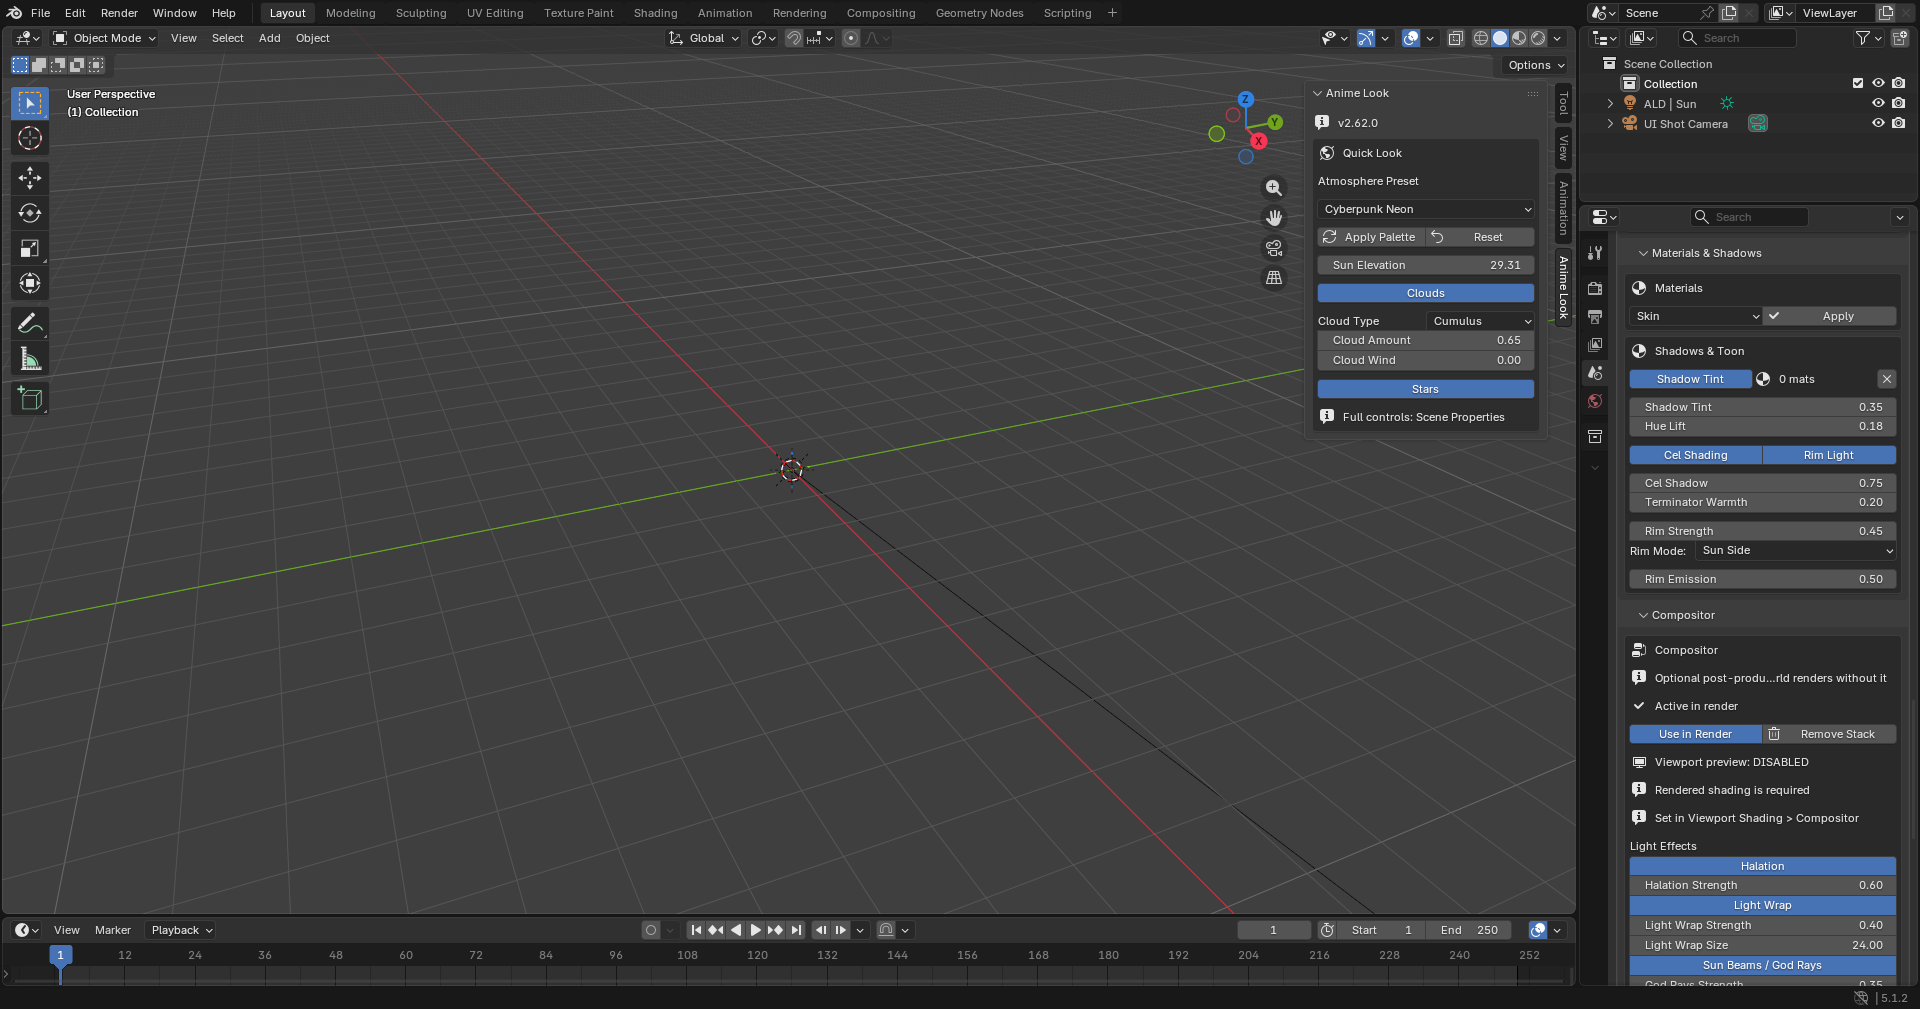
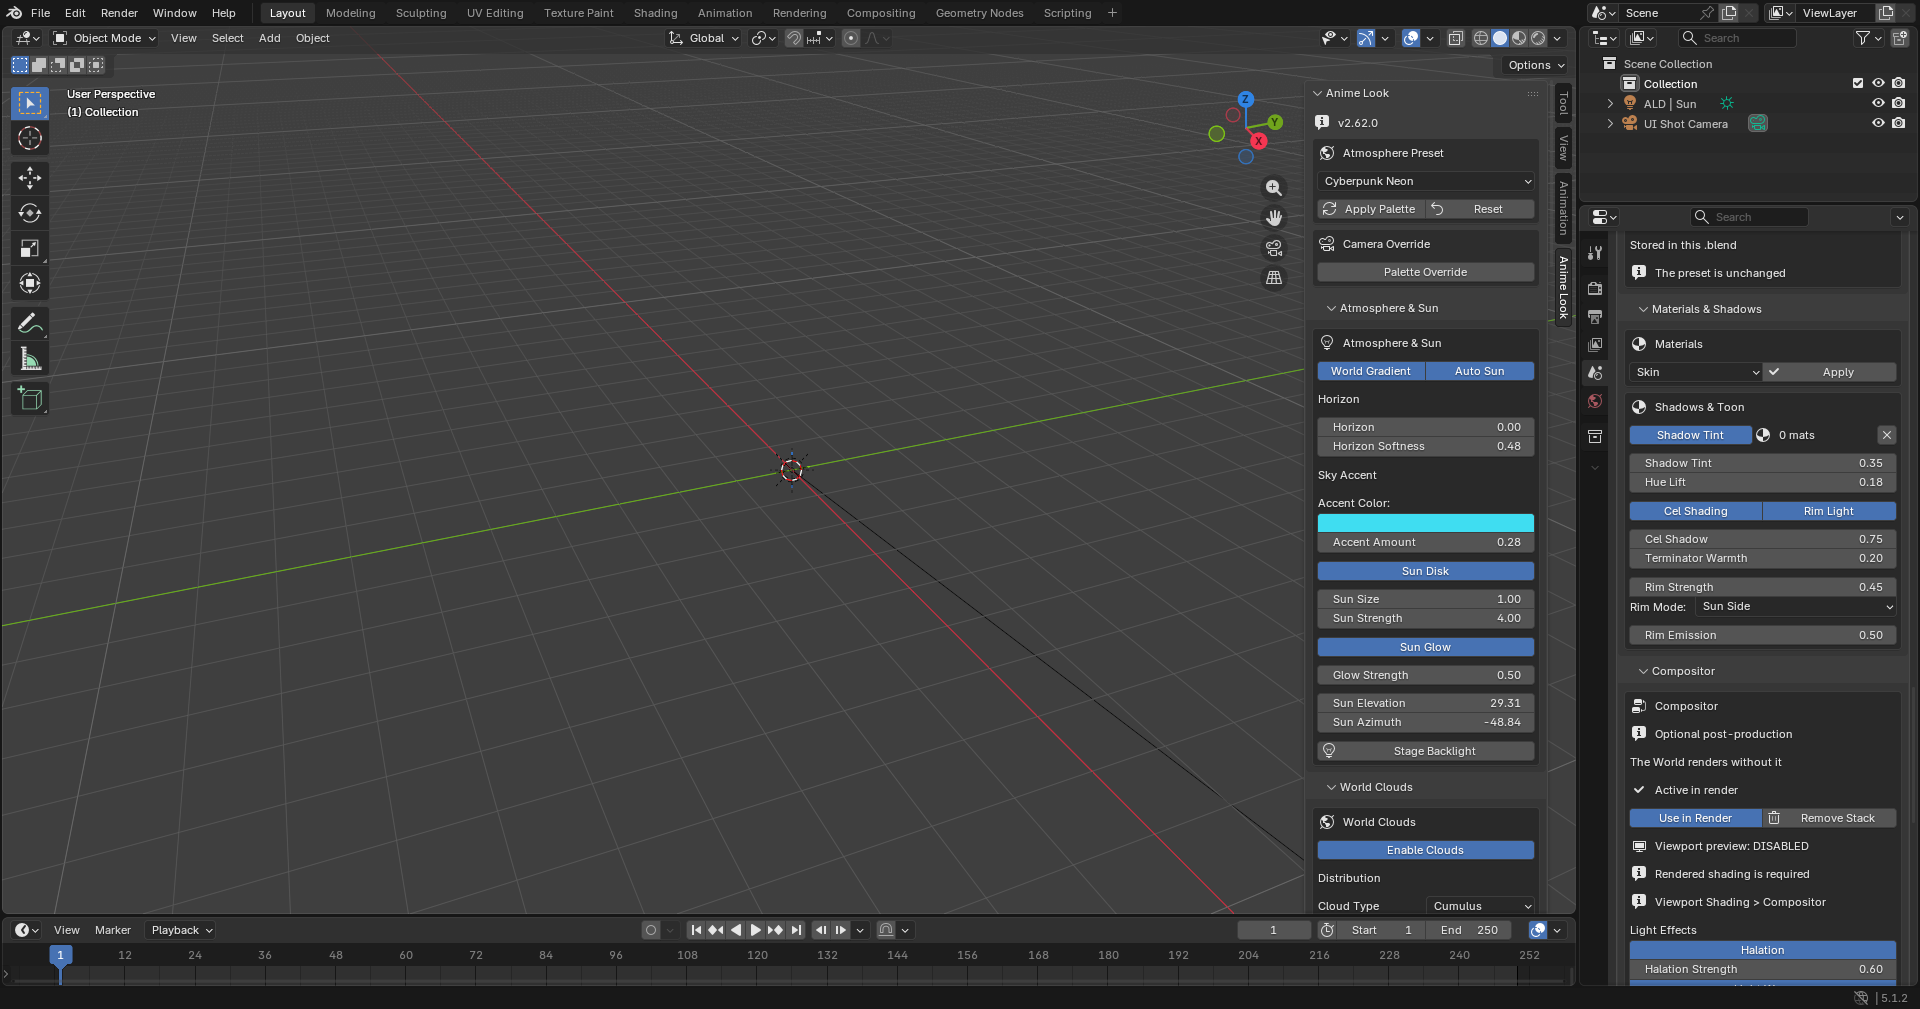
test: update phase 3 full-sidebar evidence

diff --git a/preset_dev/phase3_ui.py b/preset_dev/phase3_ui.py
@@ -57,13 +57,21 @@ def main():
           and abs(scene.ald.cloud_amount - 0.7) < 1e-5
           and not scene.ald.stars)
 
-    for name in ("ALD_PT_scene", "ALD_PT_atmosphere", "ALD_PT_clouds",
-                 "ALD_PT_stars", "ALD_PT_shooting_stars", "ALD_PT_custom",
-                 "ALD_PT_materials", "ALD_PT_compositor", "ALD_PT_advanced",
-                 "ALD_PT_view3d"):
+    scene_panels = ("ALD_PT_scene", "ALD_PT_atmosphere", "ALD_PT_clouds",
+                    "ALD_PT_stars", "ALD_PT_shooting_stars", "ALD_PT_custom",
+                    "ALD_PT_materials", "ALD_PT_compositor", "ALD_PT_advanced")
+    view3d_sections = {
+        "ALD_PT_view3d_atmosphere": ("draw_atmosphere",),
+        "ALD_PT_view3d_clouds": ("draw_clouds",),
+        "ALD_PT_view3d_stars": ("draw_stars",),
+        "ALD_PT_view3d_shooting_stars": ("draw_shooting_stars",),
+        "ALD_PT_view3d_custom": ("draw_custom_colors",),
+        "ALD_PT_view3d_materials": ("draw_material_presets", "draw_shadows"),
+        "ALD_PT_view3d_compositor": ("draw_compositor",),
+        "ALD_PT_view3d_advanced": ("draw_legacy", "draw_scene_actions"),
+    }
+    for name in scene_panels + tuple(view3d_sections) + ("ALD_PT_view3d",):
         check("registered." + name, hasattr(bpy.types, name))
-    for name in ("ALD_PT_view3d_advanced", "ALD_PT_view3d_compositor"):
-        check("removed." + name, not hasattr(bpy.types, name))
 
     check("shooting.parent",
           bpy.types.ALD_PT_shooting_stars.bl_parent_id == "ALD_PT_scene")
@@ -73,15 +81,21 @@ def main():
           bpy.types.ALD_PT_view3d.bl_space_type == "VIEW_3D")
     check("sidebar.category",
           bpy.types.ALD_PT_view3d.bl_category == "Anime Look")
+    check("sidebar.root",
+          "draw_palette" in inspect.getsource(panels.ALD_PT_view3d.draw))
+    for name, functions in view3d_sections.items():
+        cls = getattr(bpy.types, name)
+        source = inspect.getsource(cls.draw)
+        check("sidebar." + name,
+              cls.bl_parent_id == "ALD_PT_view3d"
+              and all(function in source for function in functions))
 
-    quick = inspect.getsource(panels.draw_quick_look)
     atmosphere = inspect.getsource(panels.draw_atmosphere)
     clouds = inspect.getsource(panels.draw_clouds)
     shooting = inspect.getsource(panels.draw_shooting_stars)
     compositor_draw = inspect.getsource(panels.draw_compositor)
     viewport_op = inspect.getsource(
         operators.ALD_OT_viewport_compositor.execute)
-    check("sidebar.no_compositor", "compositor" not in quick.lower())
     check("atmosphere.no_beams", "god_rays" not in atmosphere)
     check("compositor.beams", "god_rays" in compositor_draw)
     check("clouds.groups",
@@ -95,7 +109,7 @@ def main():
               ("Inactive: no ALD stack", "Configured; render disabled",
                "Active in render", "Viewport preview")))
     check("compositor.foreign_warning",
-          "A non-ALD compositor group is assigned" in compositor_draw)
+          "Non-ALD compositor group" in compositor_draw)
     check("viewport_op.current_area", "context.area" in viewport_op
           and "context.window_manager.windows" not in viewport_op)
     check("shooting_event_controls",

diff --git a/preset_dev/audit_world.py b/preset_dev/audit_world.py
@@ -124,18 +124,20 @@ CHECKS = [
                  "ald.legacy_remove")
      and has("panels.py", "draw_legacy")[0]),
     ("Compatibility", "Old files are not cleaned automatically",
-     lambda: has("panels.py", "never cleaned automatically")),
+     lambda: has("panels.py", "No automatic legacy cleanup")[0]),
     ("UI", "The surfaces share the drawing functions",
-     lambda: has("panels.py", "draw_quick_look", "draw_atmosphere",
+     lambda: has("panels.py", "draw_palette", "draw_atmosphere",
                  "draw_clouds", "draw_stars", "draw_shooting_stars",
-                 "draw_custom_colors", "draw_compositor")),
-    ("UI", "The sidebar is compact: Quick Look only",
-     lambda: has("panels.py", "Quick Look", "ALD_PT_view3d")[0]
-     and "ALD_PT_view3d_advanced" not in read("panels.py")
-     and "ALD_PT_view3d_compositor" not in read("panels.py")),
-    ("UI", "The quick panel exposes the low-frequency controls",
+                 "draw_custom_colors", "draw_compositor")[0]),
+    ("UI", "The sidebar mirrors the Scene Properties sections",
+     lambda: has("panels.py", "ALD_PT_view3d",
+                 "ALD_PT_view3d_atmosphere", "ALD_PT_view3d_clouds",
+                 "ALD_PT_view3d_stars", "ALD_PT_view3d_shooting_stars",
+                 "ALD_PT_view3d_custom", "ALD_PT_view3d_materials",
+                 "ALD_PT_view3d_compositor", "ALD_PT_view3d_advanced")[0]),
+    ("UI", "The full panels expose the World controls",
      lambda: has("panels.py", "sun_elevation", "cloud_type",
-                 "cloud_amount", "cloud_wind", "stars")),
+                 "cloud_amount", "cloud_wind", "stars")[0]),
     ("UI", "The compositor controls are hidden when inactive",
      lambda: has("panels.py", "Inactive: no ALD stack",
                  "Enable Compositor")),

diff --git a/preset_dev/VALIDATION.md b/preset_dev/VALIDATION.md
@@ -31,8 +31,8 @@ $blender = "C:\Program Files\Blender Foundation\Blender 5.1\blender.exe"
 | Shooting stars Phase 1A (2.63) | `phase1a_shooting_stars/board.png`, `board_horizon.png`, `temporal.png`, `migration.png`, `backend.png`, `interactive.png`, `lifecycle.mp4`, `metrics.json`, `review.json` | **37/37 PASS** on Eevee OpenGL and Vulkan; interactive Preview **5/5 PASS**; temporal and four-event migration verified; **FINAL TECHNICAL REVIEW: PASS**; merged to `master` at `63ffa29` |
 | Shooting stars Phase 1B (candidate) | `phase1b_shooting_stars/candidate_elevations.png`, `candidate_lifecycle.png`, `candidate_context.png`, `candidate_head_tip.png`, `candidate_lifecycle.mp4`, `candidate_metrics.json`, `markers.json`, `performance.json` | **37/37 PASS** on OpenGL and Vulkan; interactive **5/5**; markers 29/30 -> 31; **VISUAL APPROVED**; merged to `master` at `fe685d5` |
 | Atmosphere / Sun Phase 2 (candidate) | `phase2_atmosphere/board_conditions.png`, `board_second.png`, `board_sweep.png`, `board_offsets.png`, `board_controls.png`, `board_ui.png`, `phase2_metrics.json`, `phase2_tests.json` | **37/37 PASS** both backends; interactive **5/5**; markers 29/30/31 -> 32; **TECHNICAL PASS - VISUAL REVIEW PENDING** |
-| UI cleanup Phase 3 | `phase3_ui/sidebar_before.png`, `sidebar_after.png`, `properties_before.png`, `properties_after.png`, `shooting_stars_before.png`, `shooting_stars_after.png`, `compositor_inactive.png`, `compositor_disabled.png`, `compositor_active.png`, `legacy_project.png`, `sidebar_narrow.png` | compact sidebar, grouped Scene Properties, autonomous Shooting Stars, compositor states, legacy project and narrow layout |
-| Phase 3 UI checks | `phase3_ui/phase3_ui.json` | **54 checks PASS** (panels, states, users group, lifecycle, legacy) |
+| UI cleanup Phase 3 | `phase3_ui/sidebar_before.png`, `sidebar_after.png`, `properties_before.png`, `properties_after.png`, `empty_project.png`, `shooting_stars_before.png`, `shooting_stars_after.png`, `shooting_stars_added.png`, `compositor_inactive.png`, `compositor_disabled.png`, `compositor_active.png`, `legacy_project.png`, `sidebar_narrow.png` | full Scene Properties mirror in the sidebar, autonomous Shooting Stars, compositor states, empty project, legacy project and narrow layout |
+| Phase 3 UI checks | `phase3_ui/phase3_ui.json` | **68 checks PASS** (panels, mirror, states, user group, lifecycle, legacy) |
 | Phase 3 invariance | `phase3_ui/phase3_invariance.json`, `invariance_compare.png` | **pixel-identical, maxdiff 0**; World 719 / Compositor 31 nodes; marker 32 |
 | Phase 3 regressions | `phase3_ui/logs/` | ALD ALL PASS; audit 44/44; Phase 6 17/17; Phase 1A 37/37; Phase 1B markers 29/30 -> 32; Phase 2 audit PASS; build PASS |
 | Phase 6 matrix | `phase6/contact.png`, `phase6/metrics.json` | 22 cells: families x Sun, palettes, coverage, camera, wind, stars |
@@ -40,7 +40,7 @@ $blender = "C:\Program Files\Blender Foundation\Blender 5.1\blender.exe"
 | Legacy migration (2.63 work) | `legacy/report.json`, `legacy/v256_report.json` | synthetic **36/36**; real v2.56.0 `.blend` **9/9** |
 | Cumulus baseline (2.63 work) | `phase1/contact.png`, `phase1/contact_lighting.png`, `phase1/metrics.json` | v1.0.3 vs v2.62 native/calibrated; **TECHNICAL PASS / VISUAL REVIEW PENDING** |
 | Palettes | `palettes/sheet.png` | 12 presets, same camera and light |
-| UI | `preset_dev/phase3_ui/` | Quick Look sidebar, grouped Scene sections, Shooting Stars, compositor states; UI review pending |
+| UI | `preset_dev/phase3_ui/` | full Scene Properties mirror in the sidebar, autonomous Shooting Stars, compositor states; UI review pending |
 | Package | `dist/anime_look_director-2.62.0.zip` | extension build PASS; 2.62.0 installed and enabled in an isolated config |
 
 ## Definition of done
@@ -62,7 +62,7 @@ $blender = "C:\Program Files\Blender Foundation\Blender 5.1\blender.exe"
 | Shooting stars | APPROVED | controlled event, Preview, starfield-consistent line |
 | Phase 5 presets/UI | DONE | five presets, Quick Look, full Scene sections |
 | Phase 6 release | DONE | 22-cell matrix, 17/17 technical gate, package and merge |
-| Phase 3 UI cleanup (2.63) | TECHNICAL PASS | compact sidebar, autonomous Shooting Stars, compositor states, 54 checks, pixel-identical; **UI review pending** |
+| Phase 3 UI cleanup (2.63) | TECHNICAL PASS | full Scene Properties mirror in the sidebar, autonomous Shooting Stars, compositor states, 68 checks, pixel-identical; **UI review pending** |
 | Legacy disable/remove (2.63 Phase 0) | DONE | tag-based discovery, per-scene Disable/Restore, confirmed Remove |
 
 ## Pending 2.63 work
@@ -72,11 +72,12 @@ stars) and Phase 2 (atmosphere, technical) are complete in the working tree;
 this is not a release. The Phase 1 comparison and Phase 2 atmosphere are
 technically complete but their visual decisions are pending.
 
-Phase 3 UI cleanup is on `phase-3-ui-cleanup` from `d8a94d8`: the sidebar is
-Quick Look only, Shooting Stars is autonomous, and the compositor states are
-explicit. The render is pixel-identical to the base. **TECHNICAL PASS - UI
-REVIEW PENDING**; no merge or release. The version stays 2.62.0 until the
-gates and the final candidate are approved. See `preset_dev/phase3_ui/README.md`.
+Phase 3 UI cleanup is on `phase-3-ui-cleanup` from `d8a94d8`: the viewport
+sidebar mirrors the full Scene Properties sections, Shooting Stars is
+autonomous, and the compositor states are explicit. The render is pixel-identical
+to the base. **TECHNICAL PASS - UI REVIEW PENDING**; no merge or release. The
+version stays 2.62.0 until the gates and the final candidate are approved. See
+`preset_dev/phase3_ui/README.md`.
 
 ## Open aesthetic point
 

diff --git a/preset_dev/phase3_ui/README.md b/preset_dev/phase3_ui/README.md
@@ -13,9 +13,11 @@ result is the same render as the base branch.
 
 ## What changed
 
-- View3D sidebar: Quick Look only (preset, Apply/Reset, Sun Elevation, Clouds
-  on/off, Cloud Type, Cloud Amount, Cloud Wind, Stars). Removed the duplicated
-  Advanced Sky panel and the compositor panel.
+- View3D sidebar: mirrors the Scene Properties sections with the same drawing
+  functions. The root holds the palette and the sub-panels are Atmosphere &
+  Sun, World Clouds, Stars & Milky Way, Shooting Stars, Palette Customization,
+  Materials & Shadows, Compositor and Advanced Settings. The sub-panels are
+  open and scrollable.
 - Scene Properties order: Atmosphere & Sun, World Clouds, Stars & Milky Way,
   Shooting Stars, Palette Customization, Materials & Shadows, Compositor,
   Advanced Settings.
@@ -37,6 +39,15 @@ result is the same render as the base branch.
 - Advanced Settings separates reversible actions (Disable/Restore legacy
   visibility) from destructive ones (Remove Permanently, scene actions).
 
+## Internal shader slots
+
+The `Star0`..`Star3` sockets on the `ALD | World Gradient` node group (Start
+U/V, End U/V, Start Frame, Duration, Trail, Thickness, Brightness, Glow,
+Enabled) are internal shader slots for the four controlled events. They are
+not add-on controls: the Shooting Stars panel writes them. They are visible
+only if the node group interface is opened in the Shader Editor and should not
+be edited by hand.
+
 ## Screenshots
 
 All images are captures of Blender 5.1.2. The standard fixture is NEON_NIGHT,
@@ -47,8 +58,8 @@ sequence uses the standard scene with the event list cleared first.
 | File | Shows |
 |---|---|
 | `sidebar_before.png` | Base `d8a94d8`: Quick Look + Advanced Sky + Compositor, no Clouds toggle |
-| `sidebar_after.png` | Current: compact Quick Look, Clouds toggle and cloud controls |
-| `sidebar_narrow.png` | Current at 1200x900: no control clipped or overlapped |
+| `sidebar_after.png` | Current: full Scene Properties mirror in the sidebar (palette root + open sections) |
+| `sidebar_narrow.png` | Current at 1200x900: full mirror, no control clipped or overlapped |
 | `properties_top_before.png` | Base Scene Properties top |
 | `properties_top_after.png` | Current Scene Properties top |
 | `properties_before.png` | Base: Sun Glow and Sun Beams in the same row; ungrouped clouds |
@@ -79,13 +90,13 @@ use the same startup fixture and window layout.
 
 | Check | Result |
 |---|---|
-| Panel registration, states and operators | 54/54 checks PASS (`phase3_ui.json`) |
+| Panel registration, states and operators | 68/68 checks PASS (`phase3_ui.json`) |
 | Scenario A: preset with no compositor | PASS; `empty_project.png` and `empty_compositor.png` |
 | Scenario B: Sun, horizon, clouds, stars | PASS |
 | Scenario C: add / duplicate / preview / remove and four-event cap | PASS; GUI sequence `shooting_stars_*` and `shooting_stars_lifecycle.json` |
 | Scenario D/E: inactive, foreign group, disabled, active | PASS |
 | Scenario F: real legacy project (4 events, marker 29, no stack) | PASS |
-| Scenario G: narrow and wide layout | PASS; 1200x900 and 1920x1009 screenshots |
+| Scenario G: narrow and wide layout | PASS; full mirror at 1200x900 and 1920x1009 |
 | Render invariance | pixel-identical, `maxdiff 0` |
 | World / Compositor nodes | 719 / 31 on base and current |
 | World marker | 32 on both |
@@ -137,4 +148,5 @@ does not call `read_factory_settings` in the GUI timer. See
   are preserved.
 - No aesthetic review of the UI was performed. This is a technical pass only.
 - The narrow capture is the full 1200x900 window; the sidebar is fixed-width
-  and remains fully visible. No 12-preset review was started.
+  and the full mirror is scrollable, with no control clipped horizontally. No
+  12-preset review was started.

diff --git a/AGENTS.md b/AGENTS.md
@@ -74,10 +74,11 @@ World-only visual baseline (Phase 0 evidence) and Phase 2 sky matrix:
   solar body range (-0.030..0.004); the default Sun Lighting is 1.2.
 - The Scene properties are the complete surface: Atmosphere & Sun, World
   Clouds, Stars & Milky Way, Shooting Stars, Palette Customization,
-  Materials & Shadows, Compositor, Advanced Settings. The View3D sidebar is
-  Quick Look only (preset, Apply/Reset, Sun elevation, clouds, cloud
-  type/amount/wind, stars); no Advanced Sky duplication, compositor or
-  material controls in the sidebar.
+  Materials & Shadows, Compositor, Advanced Settings. The View3D sidebar
+  mirrors the same sections with the same drawing functions; the root panel
+  holds the palette and the eight sub-panels are Atmosphere & Sun, World
+  Clouds, Stars & Milky Way, Shooting Stars, Palette Customization, Materials
+  & Shadows, Compositor and Advanced Settings.
 - The compositor is inactive by default. Its panel distinguishes inactive,
   configured/render-disabled and active-in-render, reports the viewport
   preview state, never mistakes a user group for an ALD stack
@@ -106,11 +107,11 @@ World-only visual baseline (Phase 0 evidence) and Phase 2 sky matrix:
   on `phase-2-atmosphere`: Sun Elevation -30..85, immediate World sync,
   sun disk 1.0 deg / 4.0, ground-mask at the horizon, marker 32;
   **TECHNICAL PASS - VISUAL REVIEW PENDING**. Phase 3 UI cleanup is on
-  `phase-3-ui-cleanup` from `d8a94d8`: compact sidebar, autonomous Shooting
-  Stars, compositor states and grouped effects; 54 UI checks, pixel-identical
-  render, World 719 / Compositor 31 nodes, marker 32; evidence in
-  `preset_dev/phase3_ui/`, **TECHNICAL PASS - UI REVIEW PENDING**. No merge or
-  2.63 release.
+  `phase-3-ui-cleanup` from `d8a94d8`: full sidebar mirror of Scene Properties,
+  autonomous Shooting Stars, compositor states and grouped effects; 68 UI
+  checks, pixel-identical render, World 719 / Compositor 31 nodes, marker 32;
+  evidence in `preset_dev/phase3_ui/`, **TECHNICAL PASS - UI REVIEW PENDING**.
+  No merge or 2.63 release.
 - Phase 6 evidence is `preset_dev/phase6/contact.png` (22 cells),
   `metrics.json` and `technical.json` (17/17). The technical gate covers
   idempotence, determinism, wind, star isolation, ownership, persistence and
@@ -197,8 +198,8 @@ World-only visual baseline (Phase 0 evidence) and Phase 2 sky matrix:
   effects, and a read-only viewport preview line. Sun Beams lives only here.
 - `ALD_UL_shooting_stars` is the event list; the four-event cap and operators
   are unchanged.
-- The View3D sidebar uses `draw_quick_look` only. Full controls are not
-  duplicated there.
+- The View3D sidebar mirrors the Scene Properties sections with the same
+  drawing functions and open sub-panels; the root palette is shared.
 - Panel icons must come from the real Blender 5.1 enum; `CLOUD` does not exist,
   `WORLD` does.
 

diff --git a/CHANGELOG.md b/CHANGELOG.md
@@ -123,9 +123,10 @@ Cloudless World; no cloud generator, compositor or material changes.
 UI-only; no World, Shooting Star, material or shader change.
 
 #### Changed
-- View3D sidebar reduced to Quick Look: preset, Apply/Reset, Sun elevation,
-  clouds/type/amount/wind, stars. The Advanced Sky and Compositor copies are
-  removed.
+- View3D sidebar mirrors the Scene Properties sections with the same drawing
+  functions: palette root plus Atmosphere & Sun, World Clouds, Stars & Milky
+  Way, Shooting Stars, Palette Customization, Materials & Shadows, Compositor
+  and Advanced Settings. All sub-panels are open and scrollable.
 - Scene Properties reordered: Atmosphere & Sun, grouped World Clouds, Stars &
   Milky Way, autonomous Shooting Stars, Palette Customization, Materials &
   Shadows, Compositor, Advanced Settings.
@@ -142,7 +143,7 @@ UI-only; no World, Shooting Star, material or shader change.
 #### Evidence
 - `preset_dev/phase3_ui/`: before/after sidebar, Scene Properties, Shooting
   Stars, compositor inactive/disabled/active/effects, legacy project and
-  narrow layout screenshots; `phase3_ui.json` (54 checks), invariance JSON and
+  narrow layout screenshots; `phase3_ui.json` (68 checks), invariance JSON and
   comparison render, regression logs.
 - Pixel-identical render (`maxdiff 0`); World 719 / Compositor 31 nodes; marker
   32 on both.
